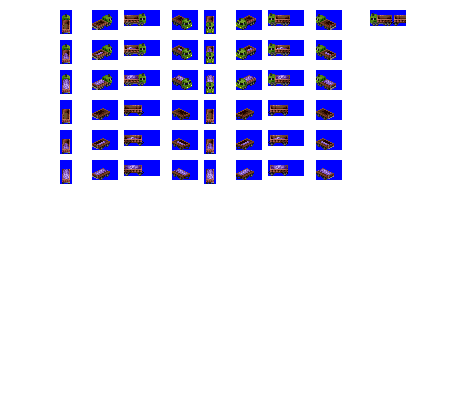
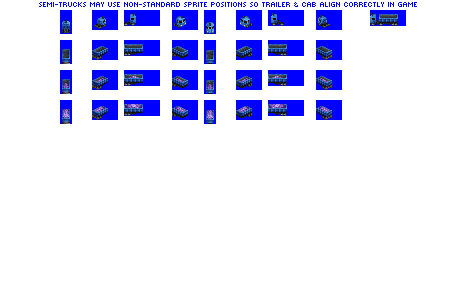
Change: improved Coleman sprites (steam dump truck)

Changed region(s): [[0.0923, 0.0, 0.9231, 0.48]]

diff --git a/src/vehicles/coleman.py b/src/vehicles/coleman.py
@@ -15,20 +15,22 @@ consist = RVConsist(id = 'coleman',
               intro_date = 1920)
 
 consist.add_unit(DumpHauler(consist = consist,
-                        weight = 10,
-                        capacity = 12,
-                        vehicle_length = 6,
+                        weight = 6,
+                        capacity = 0,
+                        vehicle_length = 2,
+                        semi_truck_shift_offset_jank = 2,
                         effect_spawn_model = 'EFFECT_SPAWN_MODEL_STEAM',
                         effects = ['EFFECT_SPRITE_STEAM, -3, 0, 12'],
+                        always_use_same_spriterow = True,
                         spriterow_num = 0))
 
 consist.add_unit(DumpHauler(consist = consist,
-                        weight = 5,
-                        capacity = 12,
+                        weight = 6,
+                        capacity = 24,
                         vehicle_length = 5,
-                        spriterow_adjust = {'multiplier': 2, 'offset': 1}))
+                        spriterow_adjust = {'multiplier': 0, 'offset': 1}))
 
 consist.add_model_variant(intro_date=0,
                        end_date=global_constants.max_game_date,
                        spritesheet_suffix=0,
-                       graphics_processor=graphics_processors[1])
+                       graphics_processor=graphics_processors[0])
